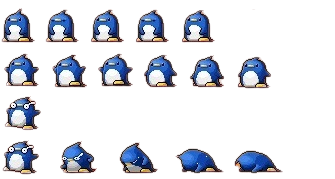
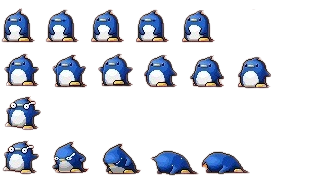
ddd

Changed region(s): [[0.1493, 0.7821, 0.8358, 0.9777]]

diff --git a/oop2_proj/src/FileManager.cpp b/oop2_proj/src/FileManager.cpp
@@ -371,7 +371,7 @@ void FileManager::createForestMonstersAnimeData()
 	({ 60, 55 }, { 4, 117 }, 0, 1, Hurt), 0.05f, true);
 
 	setCurrentData(m_monsterData[LEVEL1][MONSTER1], Dead, movableAnimationSet
-	({ 60, 55 }, { 4, 182 }, 5, 4, Dead), 0.08f, true);
+	({ 60, 55 }, { 4, 182 }, 5, 4, Dead), 0.02f, true);
 	
 
 	setCurrentData(m_monsterData[LEVEL1][MONSTER2], Stay, movableAnimationSet
@@ -384,7 +384,7 @@ void FileManager::createForestMonstersAnimeData()
 	({ 82, 82 }, { 1, 177 }, 0, 1, Hurt), 0.05f, true);
 
 	setCurrentData(m_monsterData[LEVEL1][MONSTER2], Dead, movableAnimationSet
-	({ 82, 82 }, { 1, 269 }, 4, 5, Dead), 0.05f, true);
+	({ 82, 82 }, { 1, 269 }, 4, 5, Dead), 0.02f, true);
 
 
 	setCurrentData(m_monsterData[LEVEL1][MONSTER3], Stay, movableAnimationSet
@@ -397,7 +397,7 @@ void FileManager::createForestMonstersAnimeData()
 	({ 90, 62 }, { 4, 222 }, 0, 1, Hurt), 0.05f, true);
 
 	setCurrentData(m_monsterData[LEVEL1][MONSTER3], Dead, movableAnimationSet
-	({ 130, 45 }, { 8, 296 }, 0, 3, Dead), 0.05f, true);
+	({ 130, 45 }, { 8, 296 }, 0, 3, Dead), 0.02f, true);
 }
 //----------------------------------------------------
 
@@ -415,12 +415,12 @@ void FileManager::createSnowMonstersAnimeData()
 	({ 37, 35 }, { 1, 96 }, 0, 1,	Hurt), 0.05f, true);
 
 	setCurrentData(m_monsterData[LEVEL2][MONSTER1], Dead, movableAnimationSet
-	({ 37, 35 }, { 1, 96 }, 0, 1, Dead), 0.15f, true);
+	({ 52, 35 }, { 1, 140 }, 0, 5, Dead), 0.02f, true);
+
 
 	setCurrentData(m_monsterData[LEVEL2][MONSTER2], Stay, movableAnimationSet
 	({ 112, 65 }, { 13, 36 },40,4, Stay), 0.02f, false);
 
-	//
 	setCurrentData(m_monsterData[LEVEL2][MONSTER2], Walk, movableAnimationSet
 	({ 125, 65 }, { 13, 145 }, 40, 3, Walk), 0.02f, false);
 
@@ -428,12 +428,12 @@ void FileManager::createSnowMonstersAnimeData()
 	({ 110, 50 }, { 10, 260 }, 0, 1,	Hurt), 0.05f, true);
 
 	setCurrentData(m_monsterData[LEVEL2][MONSTER2], Dead, movableAnimationSet
-	({ 110, 50 }, { 10, 260 }, 0, 1, Dead), 0.15f, true);
+	({ 110, 50 }, { 10, 352 }, 37, 4, Dead), 0.02f, true);
+
 
 	setCurrentData(m_monsterData[LEVEL2][MONSTER3], Stay, movableAnimationSet
 	({ 38, 40 }, { 1, 6 }, 8,3, Stay), 0.02f, false);
 
-	//
 	setCurrentData(m_monsterData[LEVEL2][MONSTER3], Walk, movableAnimationSet
 	({ 45, 40 }, { 1, 56 }, 5, 4, Walk), 0.02f, false);
 
@@ -441,7 +441,7 @@ void FileManager::createSnowMonstersAnimeData()
 	({ 38, 40 }, { 2, 105 }, 3, 2,Hurt), 0.05f, true);
 
 	setCurrentData(m_monsterData[LEVEL2][MONSTER3], Dead, movableAnimationSet
-	({ 38, 40 }, { 2, 105 }, 3, 2, Dead), 0.15f, true);
+	({ 38, 40 }, { 2, 105 }, 3, 2, Dead), 0.02f, true);
 
 }
 //----------------------------------------------------

diff --git a/oop2_proj/src/MovingSrc/Monster.cpp b/oop2_proj/src/MovingSrc/Monster.cpp
@@ -97,7 +97,7 @@ void Monster::hit()
 //------------------------------------------------------------------------
 void Monster::handleHit()
 {
-	static int deadCounter = 0;
+	static bool dead = false;
 
 	m_life - PLAYER_DAMAGE <= 0 ? m_life = 0 : m_life -= PLAYER_DAMAGE;
 
@@ -109,16 +109,18 @@ void Monster::handleHit()
 		}
 		else
 		{
-			if (deadCounter==0)
+			if (!dead)
 			{
-				deadCounter = 100;
 				//e.playDeathSound();
 				m_animation.operation(Operation::Dead);
+				dead = true;
 			}
-			else if(deadCounter>1)
-				deadCounter--;
-			else
-			    setToDelete();
+			else 
+			{
+				std::this_thread::sleep_for(std::chrono::milliseconds(200));
+				setToDelete();
+				//dead = false;
+			}
 		}
 }
 //------------------------------- getMove --------------------------------
